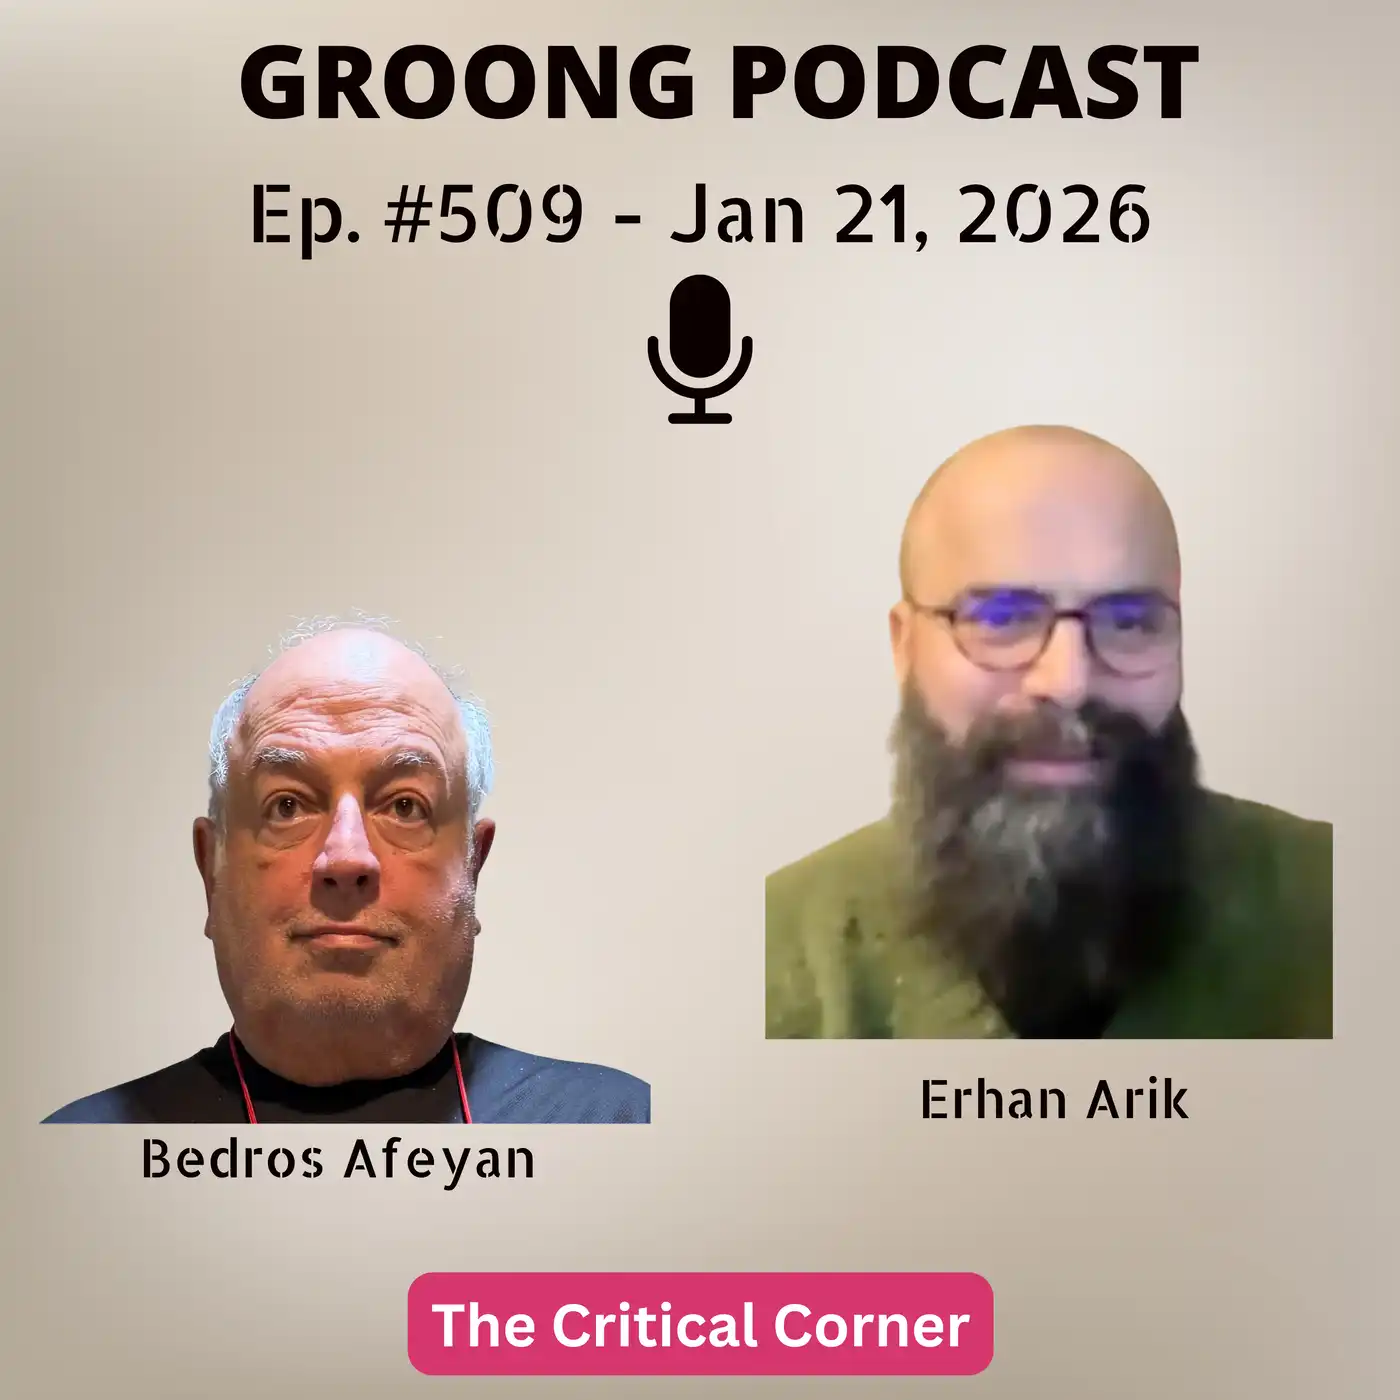
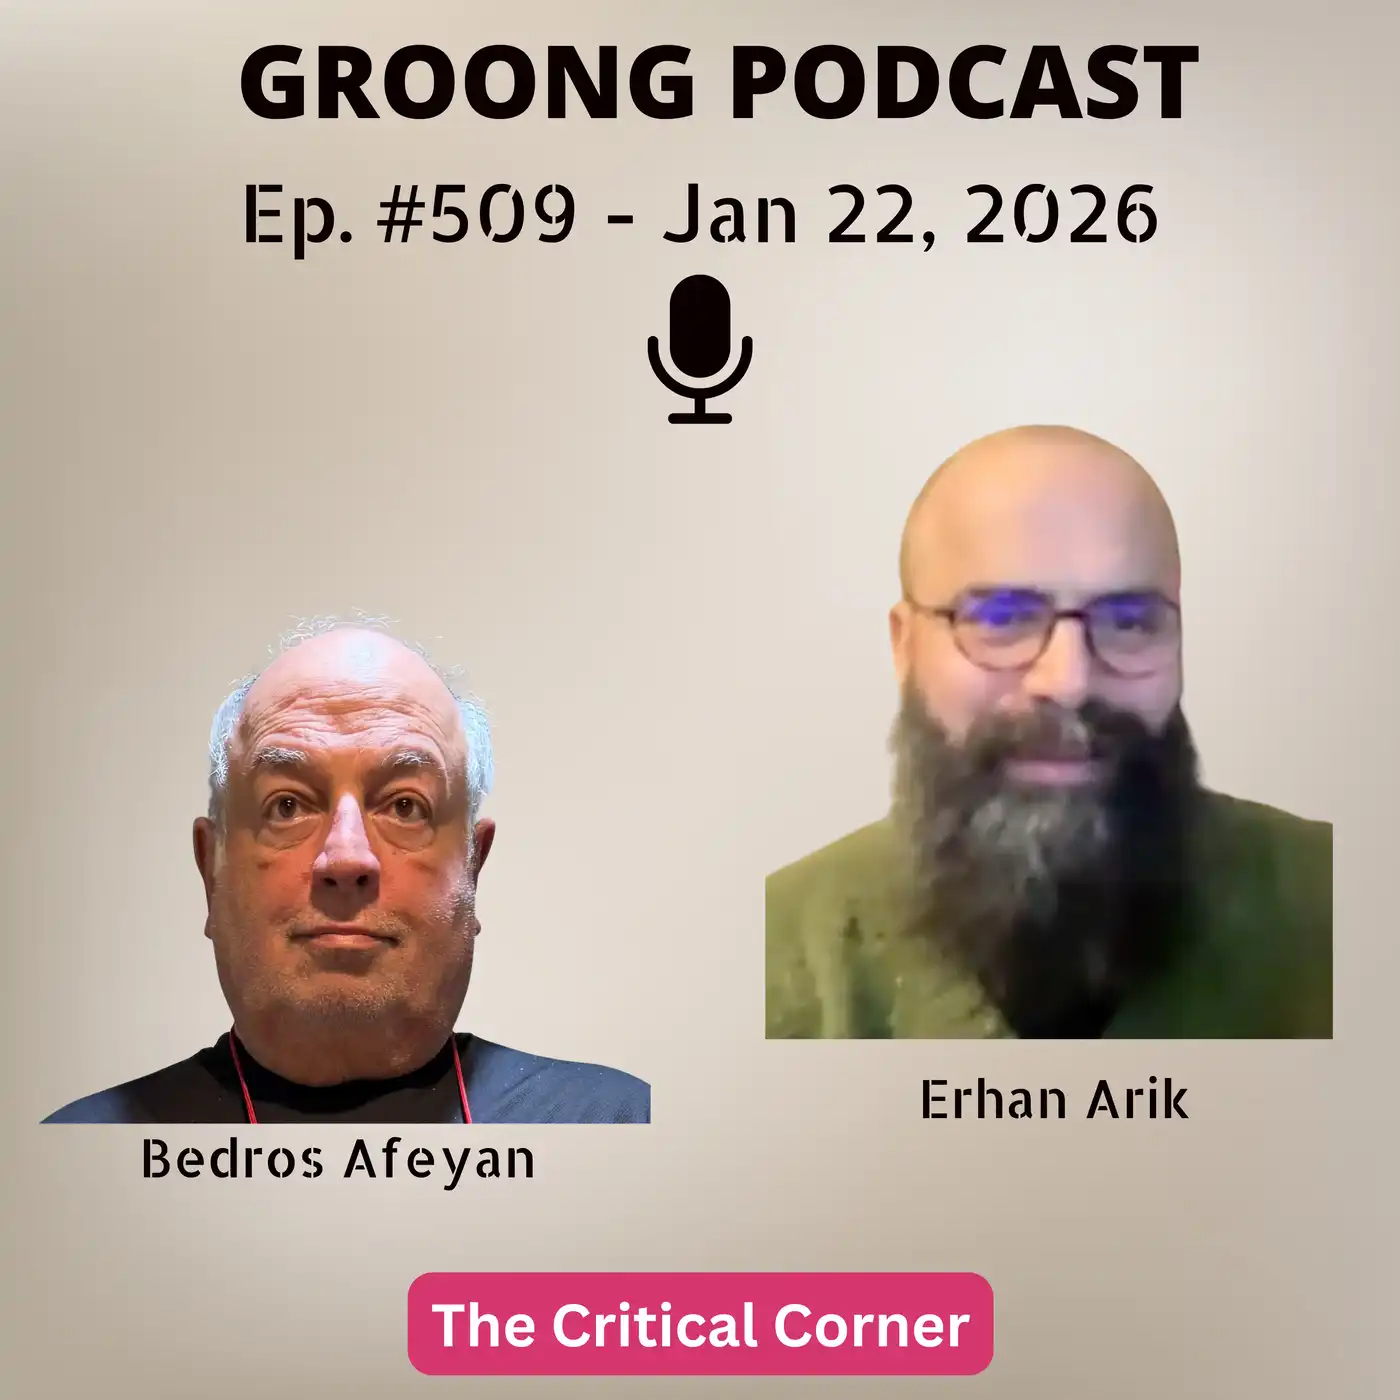
Ep 509 content stage, new images, update to Erhan bio

Changed region(s): [[0.4914, 0.1229, 0.8293, 0.1843], [0.1536, 0.1229, 0.43, 0.1843]]

diff --git a/content/episode/509-erhan-arik-turkey-ardahan-genocide-horovel-photo-exhibit-gayan-armenian-diaspora-middle-east-ojakh-diana-mkrtchyan.md b/content/episode/509-erhan-arik-turkey-ardahan-genocide-horovel-photo-exhibit-gayan-armenian-diaspora-middle-east-ojakh-diana-mkrtchyan.md
@@ -2,7 +2,7 @@
 Date = 2026-01-21T02:00:00-08:00
 upcoming = true
 
-title = "Erhan Arik - Horovel and The Armenian Genocide | Ep 509, Jan 21, 2026"
+title = "Erhan Arik - Horovel and The Armenian Genocide | Ep 509, Jan 22, 2026"
 subtitle = "The Critical Corner - Recorded on: January 18, 2026"
 
 podcast_file     = ""
@@ -40,6 +40,38 @@ Description = """
 
 Episode 509 | Recorded: January 18, 2026"""
 +++
+
+# Summary
+Bedros Afeyan speaks with photographer and photojournalist Erhan Arik about the personal shock that drove him to make **Horovel**, his long-term work with elderly Armenians in Armenia whose families came from historic Armenian regions, and the ethical choices involved in witnessing, listening, and photographing. They then discuss the return journey that became **Ojakh** with Diana Mkrtchyan, how authorship changes when the camera and narrative belong to someone else, and what it means to become a character in another person’s film. The conversation broadens to **Gayan**, Erhan’s Middle East work across several countries, and how Armenian identity, memory, and community adapt across different political and social contexts. They close with Erhan’s current documentary project **Our Seeds (Tohum)**, using the story of an ancient wheat seed tradition as a metaphor for inheritance, rupture, and continuity.
+
+## Main Topics Addressed
+- Erhan’s personal entry point into Armenian absence and presence, and why a single “hearth” image became a moral trigger.
+- **Horovel** as a cross-border memory project, and the practical constraints of border zones and trust-building.
+- The ethics of photojournalism: when the camera helps, when it harms, and how “distance” protects the subject’s story.
+- A pivotal encounter with Dikranouhi Asadourian, and what consent and agency look like in practice.
+- Returning years later and re-encountering people as time changes memory, expectations, and responsibility.
+- **Ojakh** as a second trip with a different author, and how Erhan’s role shifts when the film is Diana Mkrtchyan’s.
+- **Gayan** as a wider regional lens, and what remains common across Armenian communities in different countries.
+- **Our Seeds (Tohum)** and “seed” as a non-ideological metaphor for continuity across generations.
+
+## Key Questions Discussed
+1. What personal rupture begins a serious body of work, and why does it create an obligation to act?
+2. What does “Horovel” mean in context, and what does that reveal about cultural loss and distortion?
+3. How do you enter a community ethically when your presence can trigger pain, anger, or distrust?
+4. Where is the line between witnessing and taking, and how does a photographer avoid becoming the story?
+5. What changes when you return years later, and how does time reshape both the subject and the documentarian?
+6. What changes when someone else holds authorship, and you move from observer to character?
+7. What is shared across Armenian communities in Armenia and the Middle East, and what is shaped by local politics?
+8. Why frame a regional project around “Gayan” as a gathering and searching point after catastrophe?
+9. What can a “seed” story express about inheritance and survival that memory projects cannot say directly?
+
+## Referenced in Conversation
+- [__Dikranouhi Asadourian__ Clip](https://youtu.be/GGAEEmieXBM)
+- [__Gayan__](https://www.arasyayincilik.com/urun/gayan/) (Aras Publishing)
+- __Horovel__ (photo project and exhibit)
+- __Ojakh__ (documentary project with Diana Mkrtchyan)
+- __Our Seeds__ / Tohum (documentary project)
+- __Yearning / Garod__ (film referenced as an analogy)
 
 
 

diff --git a/content/guest/earik.md b/content/guest/earik.md
@@ -6,7 +6,7 @@ Twitter = ""
 Website = ""
 Type = "guest"
 Facebook = "erhan.arik1"
-Linkedin = "https://www.linkedin.com/in/erhan-arik-74756821/"
+Linkedin = "erhan-arik-74756821/"
 GitHub = ""
 Thumbnail = "img/guest/Erhan-Arik-1.webp"
 Pinterest = ""
